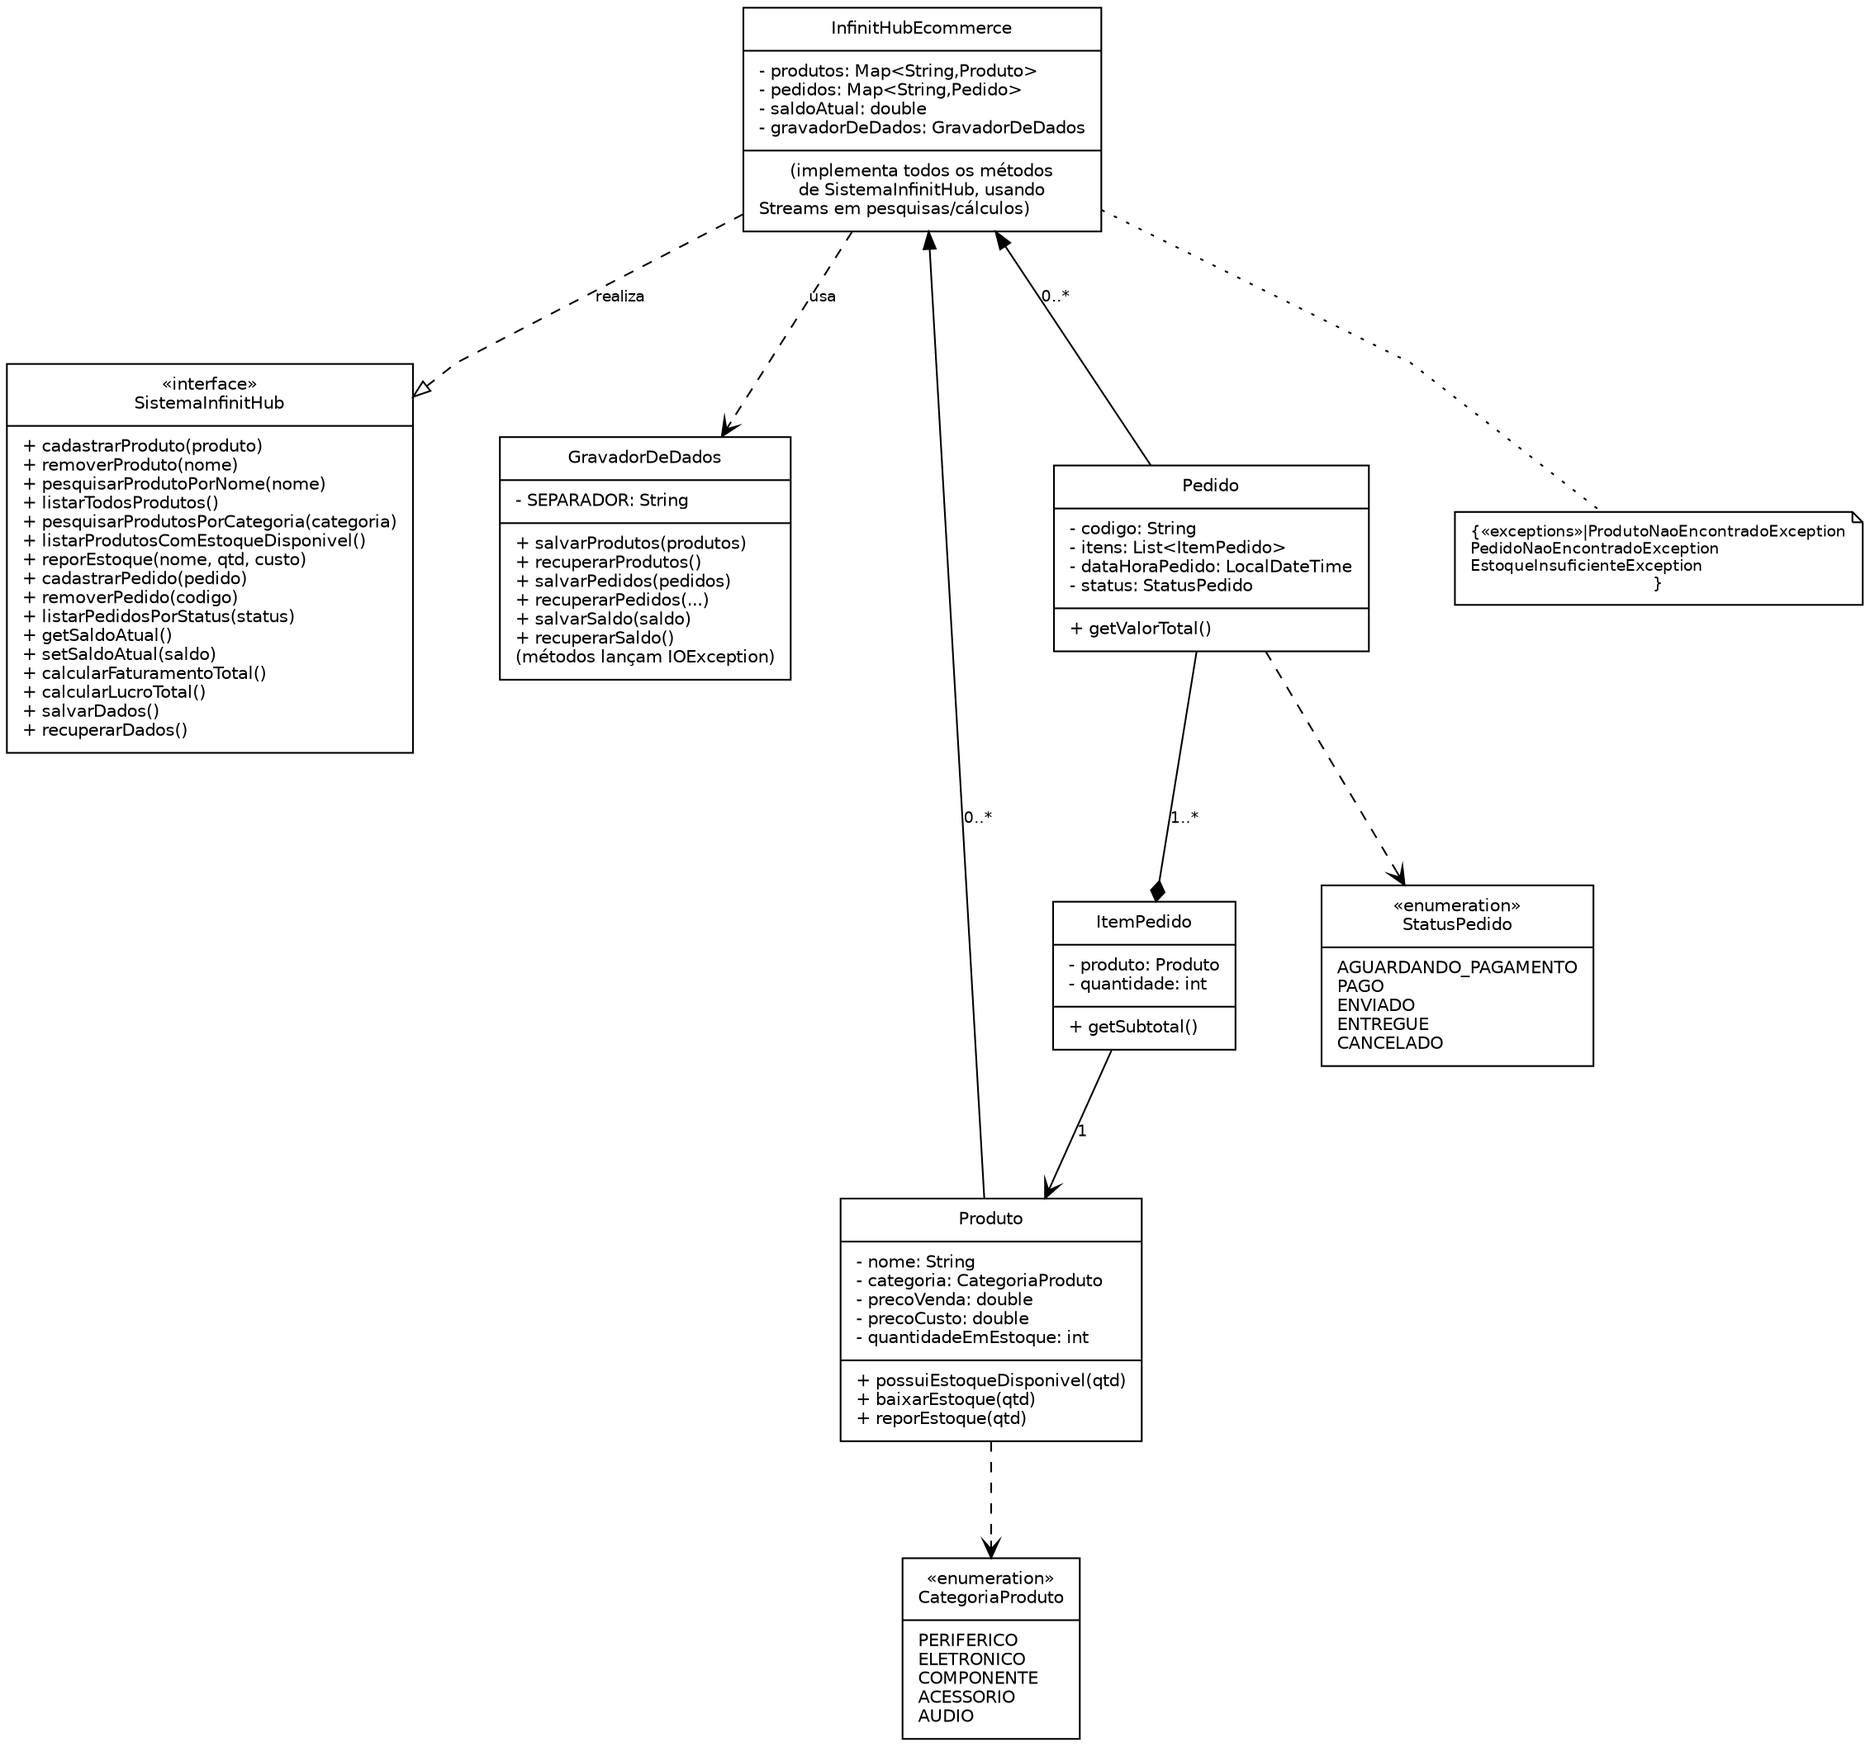
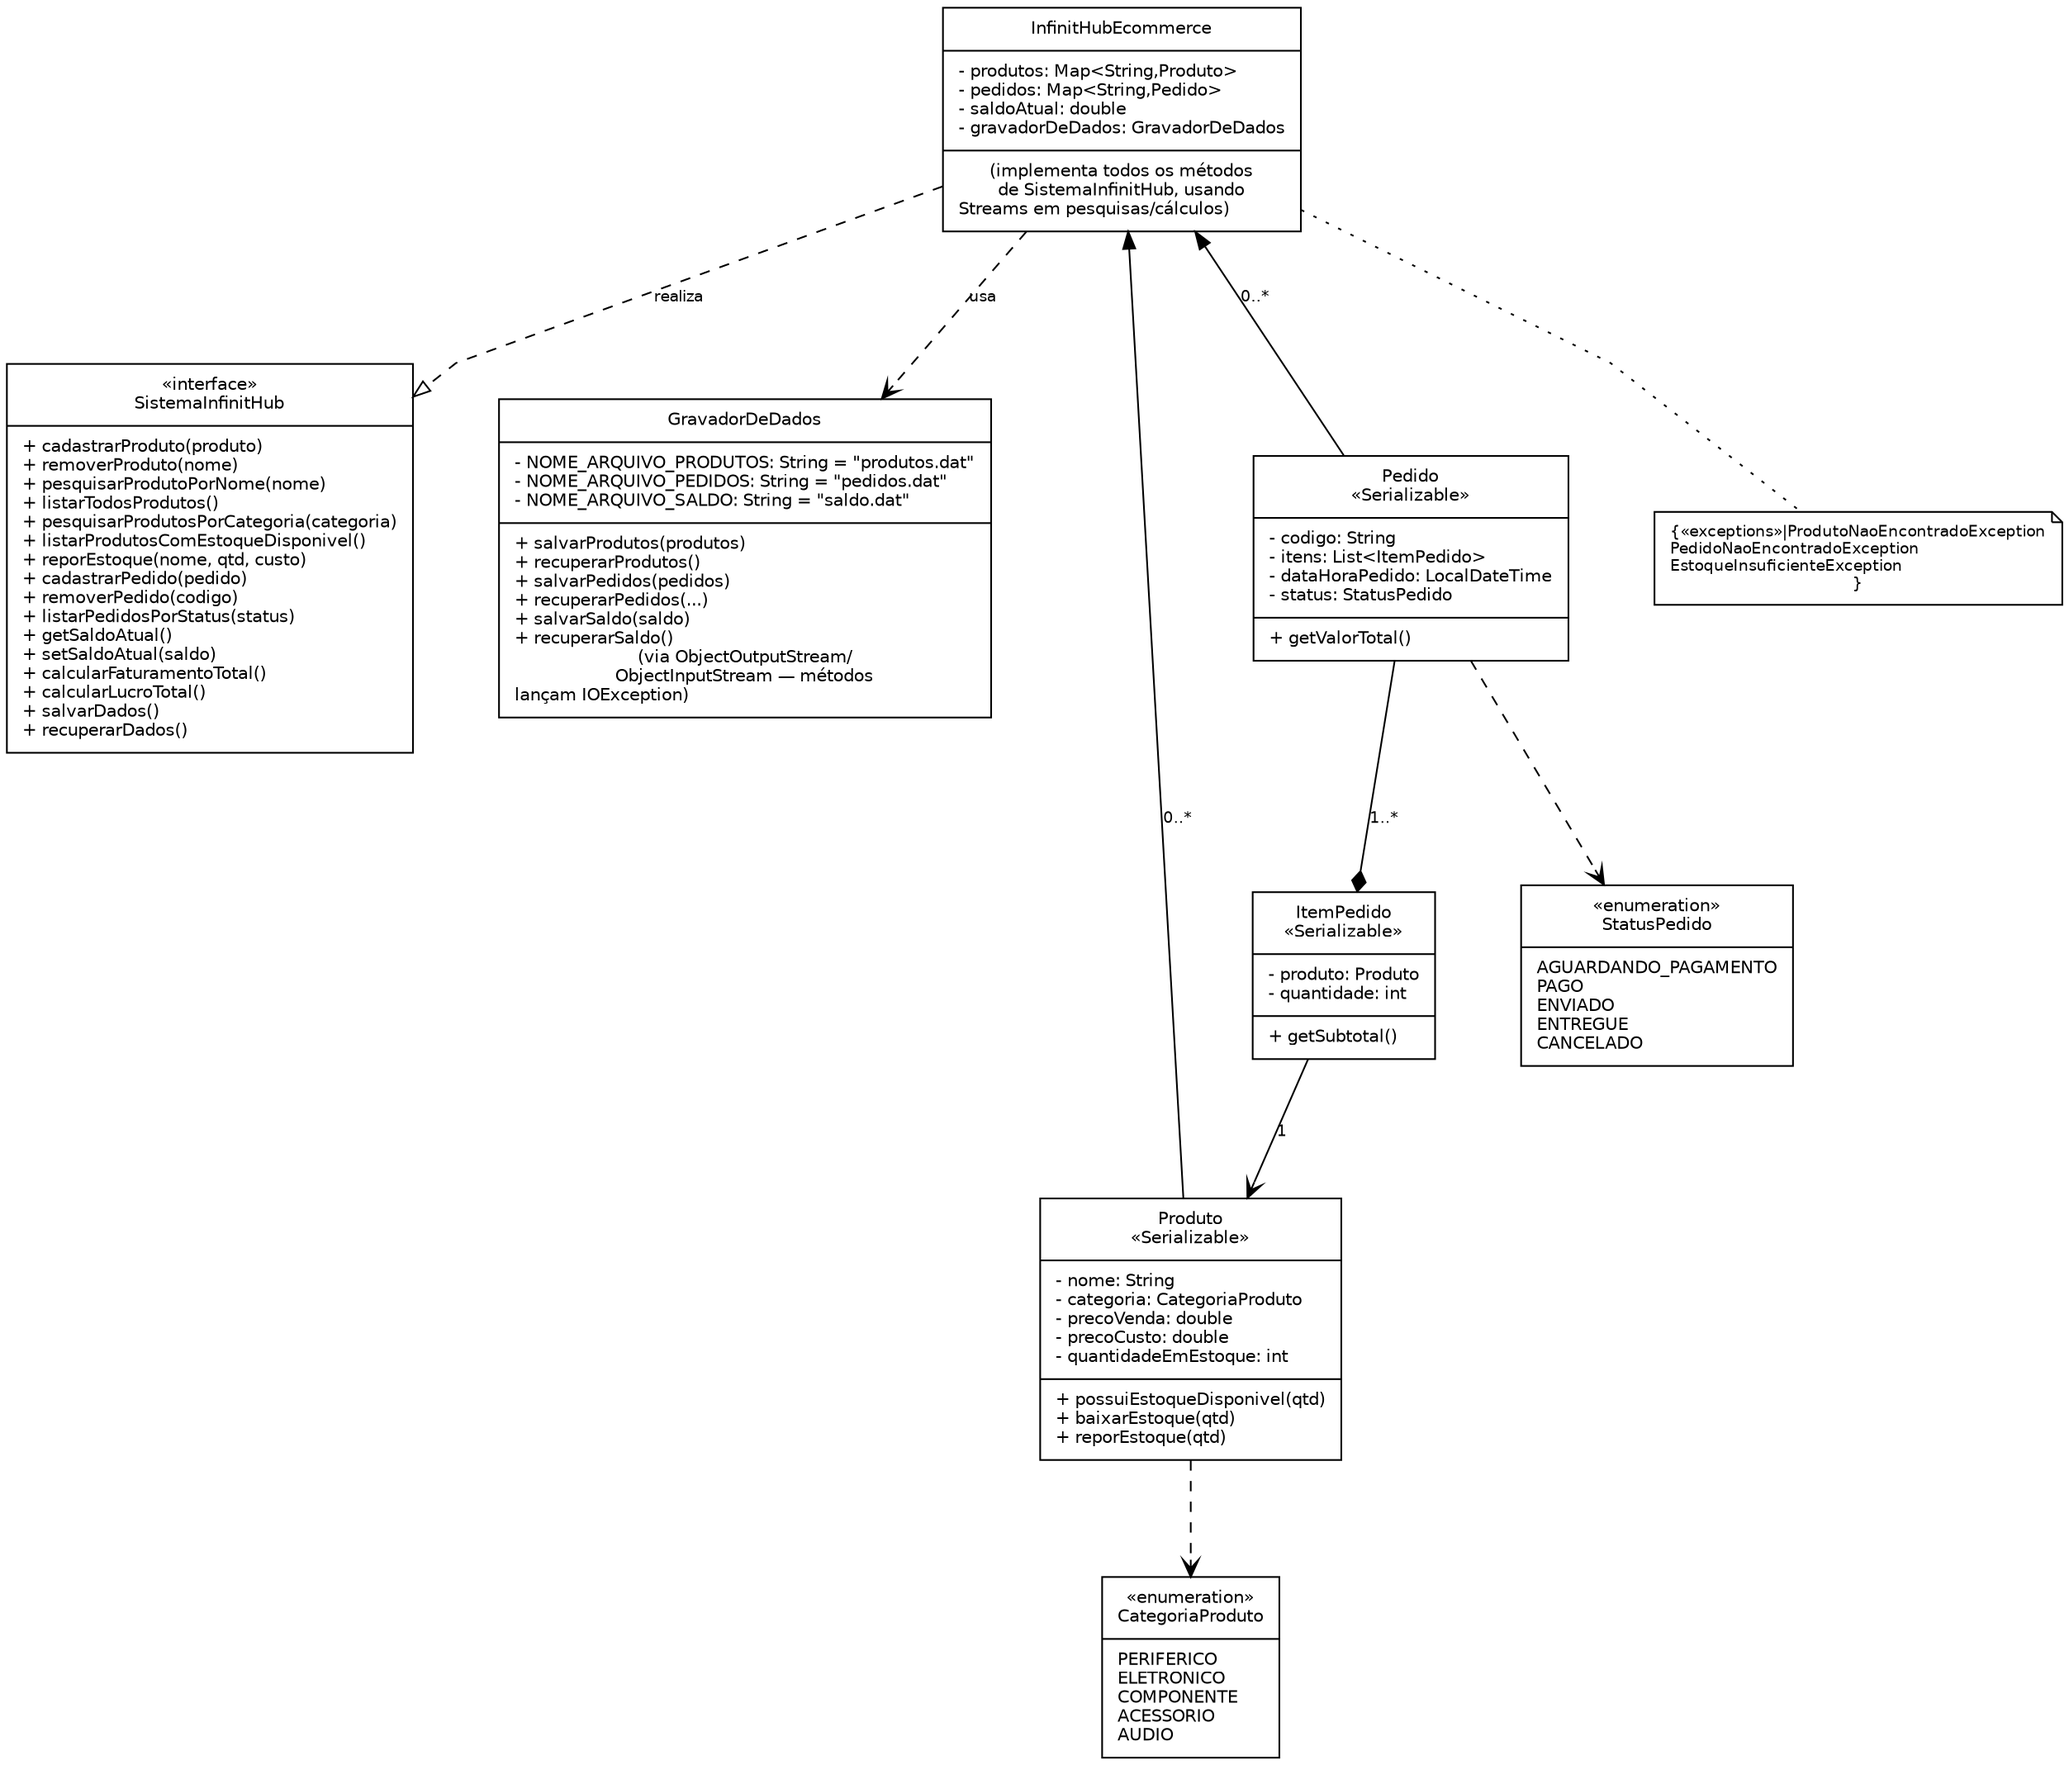
FINAL1

diff --git a/src/main/java/persistencia/GravadorDeDados.java b/src/main/java/persistencia/GravadorDeDados.java
@@ -1,120 +1,103 @@
 package persistencia;
 
-import java.io.*;
-import java.time.LocalDateTime;
-import java.util.*;
+import java.io.EOFException;
+import java.io.File;
+import java.io.FileInputStream;
+import java.io.FileOutputStream;
+import java.io.IOException;
+import java.io.ObjectInputStream;
+import java.io.ObjectOutputStream;
+import java.util.ArrayList;
+import java.util.Collection;
+import java.util.List;
+import java.util.Map;
 
-import modelo.CategoriaProduto;
 import modelo.ItemPedido;
 import modelo.Pedido;
 import modelo.Produto;
-import modelo.StatusPedido;
 
 public class GravadorDeDados {
 
-    public static final String NOME_ARQUIVO_PRODUTOS = "produtos.txt";
-    public static final String NOME_ARQUIVO_PEDIDOS = "pedidos.txt";
-    public static final String NOME_ARQUIVO_SALDO = "saldo.txt";
+    public static final String NOME_ARQUIVO_PRODUTOS = "produtos.dat";
+    public static final String NOME_ARQUIVO_PEDIDOS = "pedidos.dat";
+    public static final String NOME_ARQUIVO_SALDO = "saldo.dat";
 
-    private static final String SEPARADOR = ";";
-    private static final String SEPARADOR_ITENS = ",";
-    private static final String SEPARADOR_ITEM_CAMPO = ":";
+    //PRODUTOS
 
     public void salvarProdutos(Collection<Produto> produtos) throws IOException {
-        try (BufferedWriter writer = new BufferedWriter(new FileWriter(NOME_ARQUIVO_PRODUTOS))) {
-            for (Produto p : produtos) {
-                writer.write(p.getNome() + SEPARADOR + p.getCategoria() + SEPARADOR
-                        + p.getPrecoVenda() + SEPARADOR + p.getPrecoCusto() + SEPARADOR + p.getQuantidadeEmEstoque());
-                writer.newLine();
-            }
+        try (ObjectOutputStream out = new ObjectOutputStream(new FileOutputStream(NOME_ARQUIVO_PRODUTOS))) {
+            out.writeObject(new ArrayList<>(produtos));
         }
     }
 
+    @SuppressWarnings("unchecked")
     public List<Produto> recuperarProdutos() throws IOException {
-        List<Produto> produtos = new ArrayList<>();
         File arquivo = new File(NOME_ARQUIVO_PRODUTOS);
-        if (!arquivo.exists()) return produtos;
-
-        try (BufferedReader reader = new BufferedReader(new FileReader(arquivo))) {
-            String linha;
-            while ((linha = reader.readLine()) != null) {
-                if (linha.isBlank()) continue;
-                String[] campos = linha.split(SEPARADOR);
-                Produto p = new Produto(campos[0], CategoriaProduto.valueOf(campos[1]),
-                        Double.parseDouble(campos[2]), Double.parseDouble(campos[3]), Integer.parseInt(campos[4]));
-                produtos.add(p);
-            }
+        if (!arquivo.exists()) {
+            return new ArrayList<>();
         }
-        return produtos;
+        try (ObjectInputStream in = new ObjectInputStream(new FileInputStream(arquivo))) {
+            return (List<Produto>) in.readObject();
+        } catch (EOFException e) {
+            return new ArrayList<>();
+        } catch (ClassNotFoundException e) {
+            throw new IOException("Classe Produto não encontrada ao recuperar objetos.", e);
+        }
     }
+
+    // PEDIDOS
 
     public void salvarPedidos(Collection<Pedido> pedidos) throws IOException {
-        try (BufferedWriter writer = new BufferedWriter(new FileWriter(NOME_ARQUIVO_PEDIDOS))) {
-            for (Pedido p : pedidos) {
-                String itensSerializados = serializarItens(p.getItens());
-                writer.write(p.getCodigo() + SEPARADOR + itensSerializados + SEPARADOR
-                        + p.getDataHoraPedido() + SEPARADOR + p.getStatus());
-                writer.newLine();
-            }
+        try (ObjectOutputStream out = new ObjectOutputStream(new FileOutputStream(NOME_ARQUIVO_PEDIDOS))) {
+            out.writeObject(new ArrayList<>(pedidos));
         }
     }
 
-    private String serializarItens(List<ItemPedido> itens) {
-        StringBuilder sb = new StringBuilder();
-        for (int i = 0; i < itens.size(); i++) {
-            ItemPedido item = itens.get(i);
-            sb.append(item.getProduto().getNome()).append(SEPARADOR_ITEM_CAMPO).append(item.getQuantidade());
-            if (i < itens.size() - 1) sb.append(SEPARADOR_ITENS);
-        }
-        return sb.toString();
-    }
-
-    public List<Pedido> recuperarPedidos(Object c, Object v, Map<String, Produto> produtos) throws IOException {
-        List<Pedido> pedidos = new ArrayList<>();
+    @SuppressWarnings("unchecked")
+    public List<Pedido> recuperarPedidos(Object clientes, Object vendedores, Map<String, Produto> produtos) throws IOException {
         File arquivo = new File(NOME_ARQUIVO_PEDIDOS);
-        if (!arquivo.exists()) return pedidos;
+        if (!arquivo.exists()) {
+            return new ArrayList<>();
+        }
+        List<Pedido> pedidos;
+        try (ObjectInputStream in = new ObjectInputStream(new FileInputStream(arquivo))) {
+            pedidos = (List<Pedido>) in.readObject();
+        } catch (EOFException e) {
+            return new ArrayList<>();
+        } catch (ClassNotFoundException e) {
+            throw new IOException("Classe Pedido não encontrada ao recuperar objetos.", e);
+        }
 
-        try (BufferedReader reader = new BufferedReader(new FileReader(arquivo))) {
-            String linha;
-            while ((linha = reader.readLine()) != null) {
-                if (linha.isBlank()) continue;
-                String[] campos = linha.split(SEPARADOR);
-                List<ItemPedido> itens = desserializarItens(campos[1], produtos);
-                LocalDateTime dataHora = LocalDateTime.parse(campos[2]);
-                Pedido p = new Pedido(campos[0], itens, dataHora, StatusPedido.valueOf(campos[3]));
-                pedidos.add(p);
+        for (Pedido pedido : pedidos) {
+            for (ItemPedido item : pedido.getItens()) {
+                Produto produtoAtual = produtos.get(item.getProduto().getNome().toLowerCase());
+                if (produtoAtual != null) {
+                    item.setProduto(produtoAtual);
+                }
             }
         }
         return pedidos;
     }
 
-    private List<ItemPedido> desserializarItens(String serializado, Map<String, Produto> produtos) {
-        List<ItemPedido> itens = new ArrayList<>();
-        if (serializado == null || serializado.isBlank()) return itens;
-
-        String[] pares = serializado.split(SEPARADOR_ITENS);
-        for (String par : pares) {
-            String[] campos = par.split(SEPARADOR_ITEM_CAMPO);
-            Produto p = produtos.get(campos[0].toLowerCase());
-            if (p != null) {
-                itens.add(new ItemPedido(p, Integer.parseInt(campos[1])));
-            }
-        }
-        return itens;
-    }
+    //SALDO
 
     public void salvarSaldo(double saldo) throws IOException {
-        try (BufferedWriter writer = new BufferedWriter(new FileWriter(NOME_ARQUIVO_SALDO))) {
-            writer.write(String.valueOf(saldo));
+        try (ObjectOutputStream out = new ObjectOutputStream(new FileOutputStream(NOME_ARQUIVO_SALDO))) {
+            out.writeObject(Double.valueOf(saldo));
         }
     }
 
     public double recuperarSaldo() throws IOException {
         File arquivo = new File(NOME_ARQUIVO_SALDO);
-        if (!arquivo.exists()) return 0.0;
-        try (BufferedReader reader = new BufferedReader(new FileReader(arquivo))) {
-            String linha = reader.readLine();
-            return (linha != null) ? Double.parseDouble(linha) : 0.0;
+        if (!arquivo.exists()) {
+            return 0.0;
+        }
+        try (ObjectInputStream in = new ObjectInputStream(new FileInputStream(arquivo))) {
+            return (Double) in.readObject();
+        } catch (EOFException e) {
+            return 0.0;
+        } catch (ClassNotFoundException e) {
+            throw new IOException("Classe Double não encontrada ao recuperar o saldo.", e);
         }
     }
 }

diff --git a/src/main/java/modelo/Pedido.java b/src/main/java/modelo/Pedido.java
@@ -1,10 +1,13 @@
 package modelo;
 
+import java.io.Serializable;
 import java.time.LocalDateTime;
 import java.time.format.DateTimeFormatter;
 import java.util.List;
 
-public class Pedido {
+public class Pedido implements Serializable {
+
+    private static final long serialVersionUID = 1L;
 
     private String codigo;
     private List<ItemPedido> itens;
@@ -53,10 +56,10 @@ public class Pedido {
 
     @Override
     public String toString() {
-        return String.format("[%s] %s | Total: R$ %.2f | Itens: %d", 
-            codigo, 
-            dataHoraPedido.format(DateTimeFormatter.ofPattern("dd/MM/yyyy HH:mm")), 
-            getValorTotal(), 
-            itens.size());
+        return String.format("[%s] %s | Total: R$ %.2f | Itens: %d",
+                codigo,
+                dataHoraPedido.format(DateTimeFormatter.ofPattern("dd/MM/yyyy HH:mm")),
+                getValorTotal(),
+                itens.size());
     }
 }

diff --git a/src/main/java/modelo/Produto.java b/src/main/java/modelo/Produto.java
@@ -1,8 +1,12 @@
 package modelo;
 
+import java.io.Serializable;
 import java.util.Objects;
 
-public class Produto {
+public class Produto implements Serializable {
+
+    private static final long serialVersionUID = 1L;
+
     private String nome;
     private CategoriaProduto categoria;
     private double precoVenda;

diff --git a/src/main/java/modelo/ItemPedido.java b/src/main/java/modelo/ItemPedido.java
@@ -1,6 +1,10 @@
 package modelo;
 
-public class ItemPedido {
+import java.io.Serializable;
+
+public class ItemPedido implements Serializable {
+
+    private static final long serialVersionUID = 1L;
 
     private Produto produto;
     private int quantidade;

diff --git a/README.md b/README.md
@@ -23,8 +23,8 @@ O sistema implementa o padrão **Façade** através da interface `SistemaInfinit
 11. **getSaldoAtual / setSaldoAtual:** Gestão do capital em caixa (inclui correção manual).
 12. **calcularFaturamentoTotal:** Soma de todos os pedidos realizados usando **Streams (mapToDouble + sum)**.
 13. **calcularLucroTotal:** Soma o lucro (venda − custo) de cada item vendido usando **Streams (flatMap + mapToDouble + sum)**.
-14. **salvarDados:** Persistência em arquivos `.txt` via classe `GravadorDeDados`.
-15. **recuperarDados:** Carregamento do estado anterior do sistema.
+14. **salvarDados:** Persistência via serialização de objetos (`ObjectOutputStream`) através da classe `GravadorDeDados`.
+15. **recuperarDados:** Carregamento do estado anterior do sistema, via desserialização de objetos (`ObjectInputStream`).
 
 ## Requisitos Técnicos Atendidos
 
@@ -32,7 +32,7 @@ O sistema implementa o padrão **Façade** através da interface `SistemaInfinit
 - **Coleções:** Uso de `HashMap` para armazenamento de dados em memória.
 - **Streams e Lambda:** Implementados em diversos pontos para processamento de dados (filter, map, mapToDouble, flatMap).
 - **Exceções:** Tratamento robusto de erros de negócio (`ProdutoNaoEncontradoException`, `PedidoNaoEncontradoException`, `EstoqueInsuficienteException`).
-- **Persistência:** Gravação/Leitura em arquivos de texto (`produtos.txt`, `pedidos.txt`, `saldo.txt`), com métodos que lançam `IOException`.
+- **Persistência:** Gravação e recuperação de **objetos** via serialização nativa do Java (`ObjectOutputStream`/`ObjectInputStream`), em `produtos.dat`, `pedidos.dat` e `saldo.dat`. As classes `Produto`, `Pedido` e `ItemPedido` implementam `Serializable`. Todos os métodos usam try-with-resources e lançam `IOException`.
 - **Interface Gráfica:** Desenvolvida em **Swing**, com barra de menu (`JMenuBar`) e painel lateral com atalhos.
 - **Testes Automatizados:** 7 casos de teste no JUnit 5, exercitando todos os métodos da interface.
 
